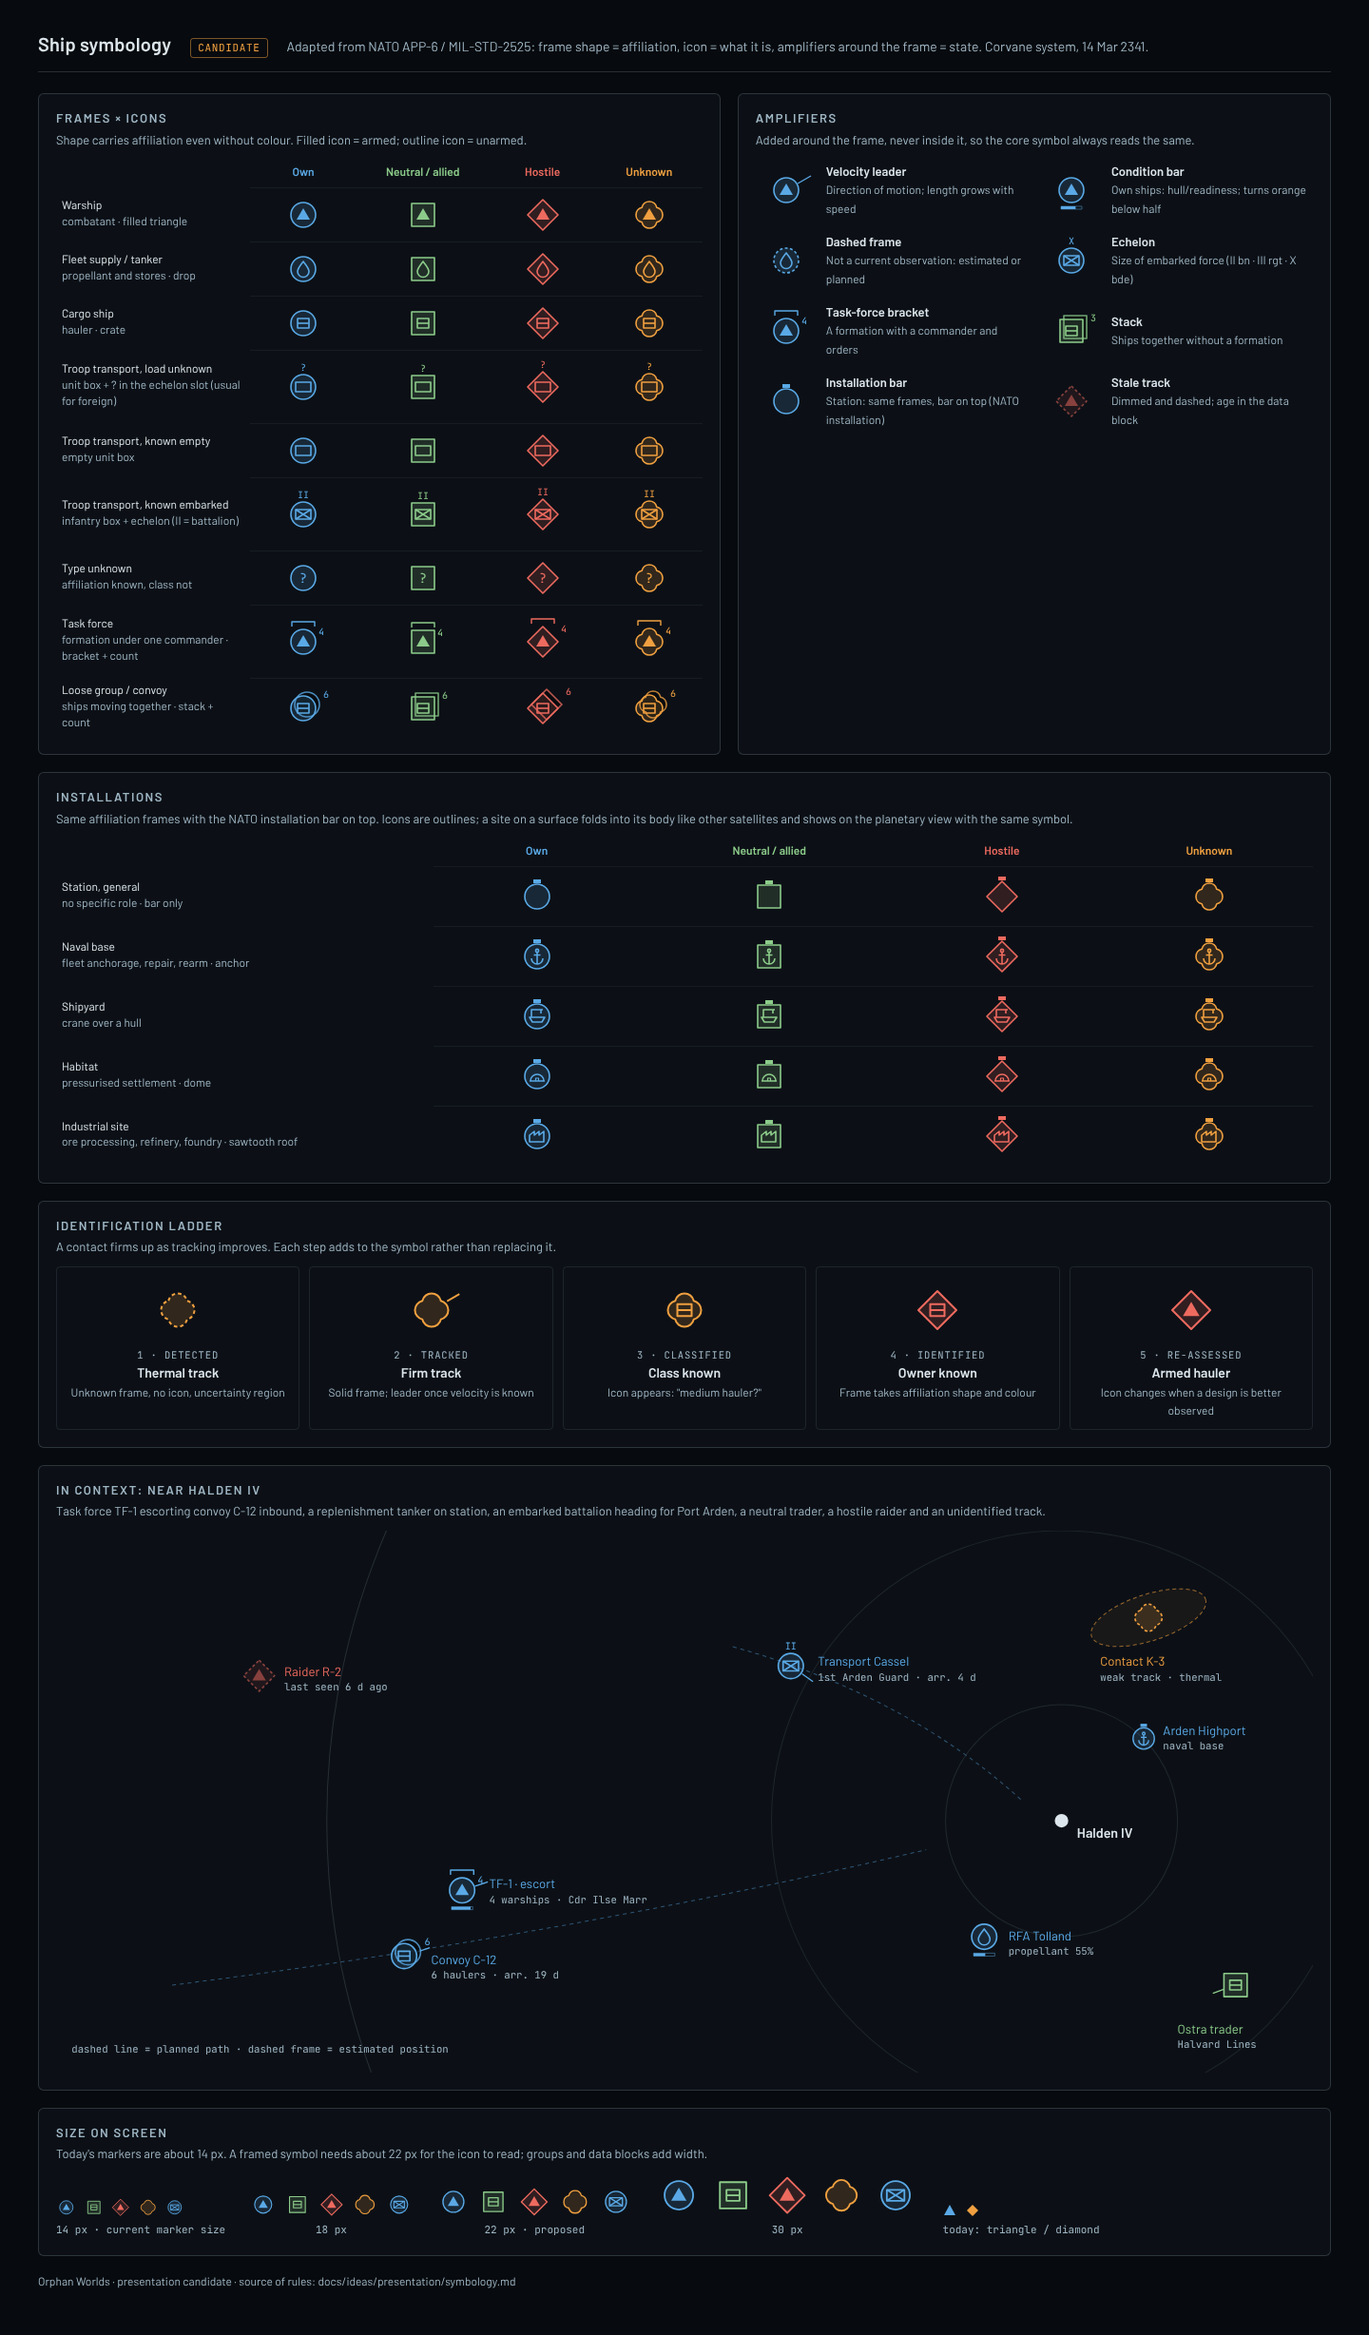
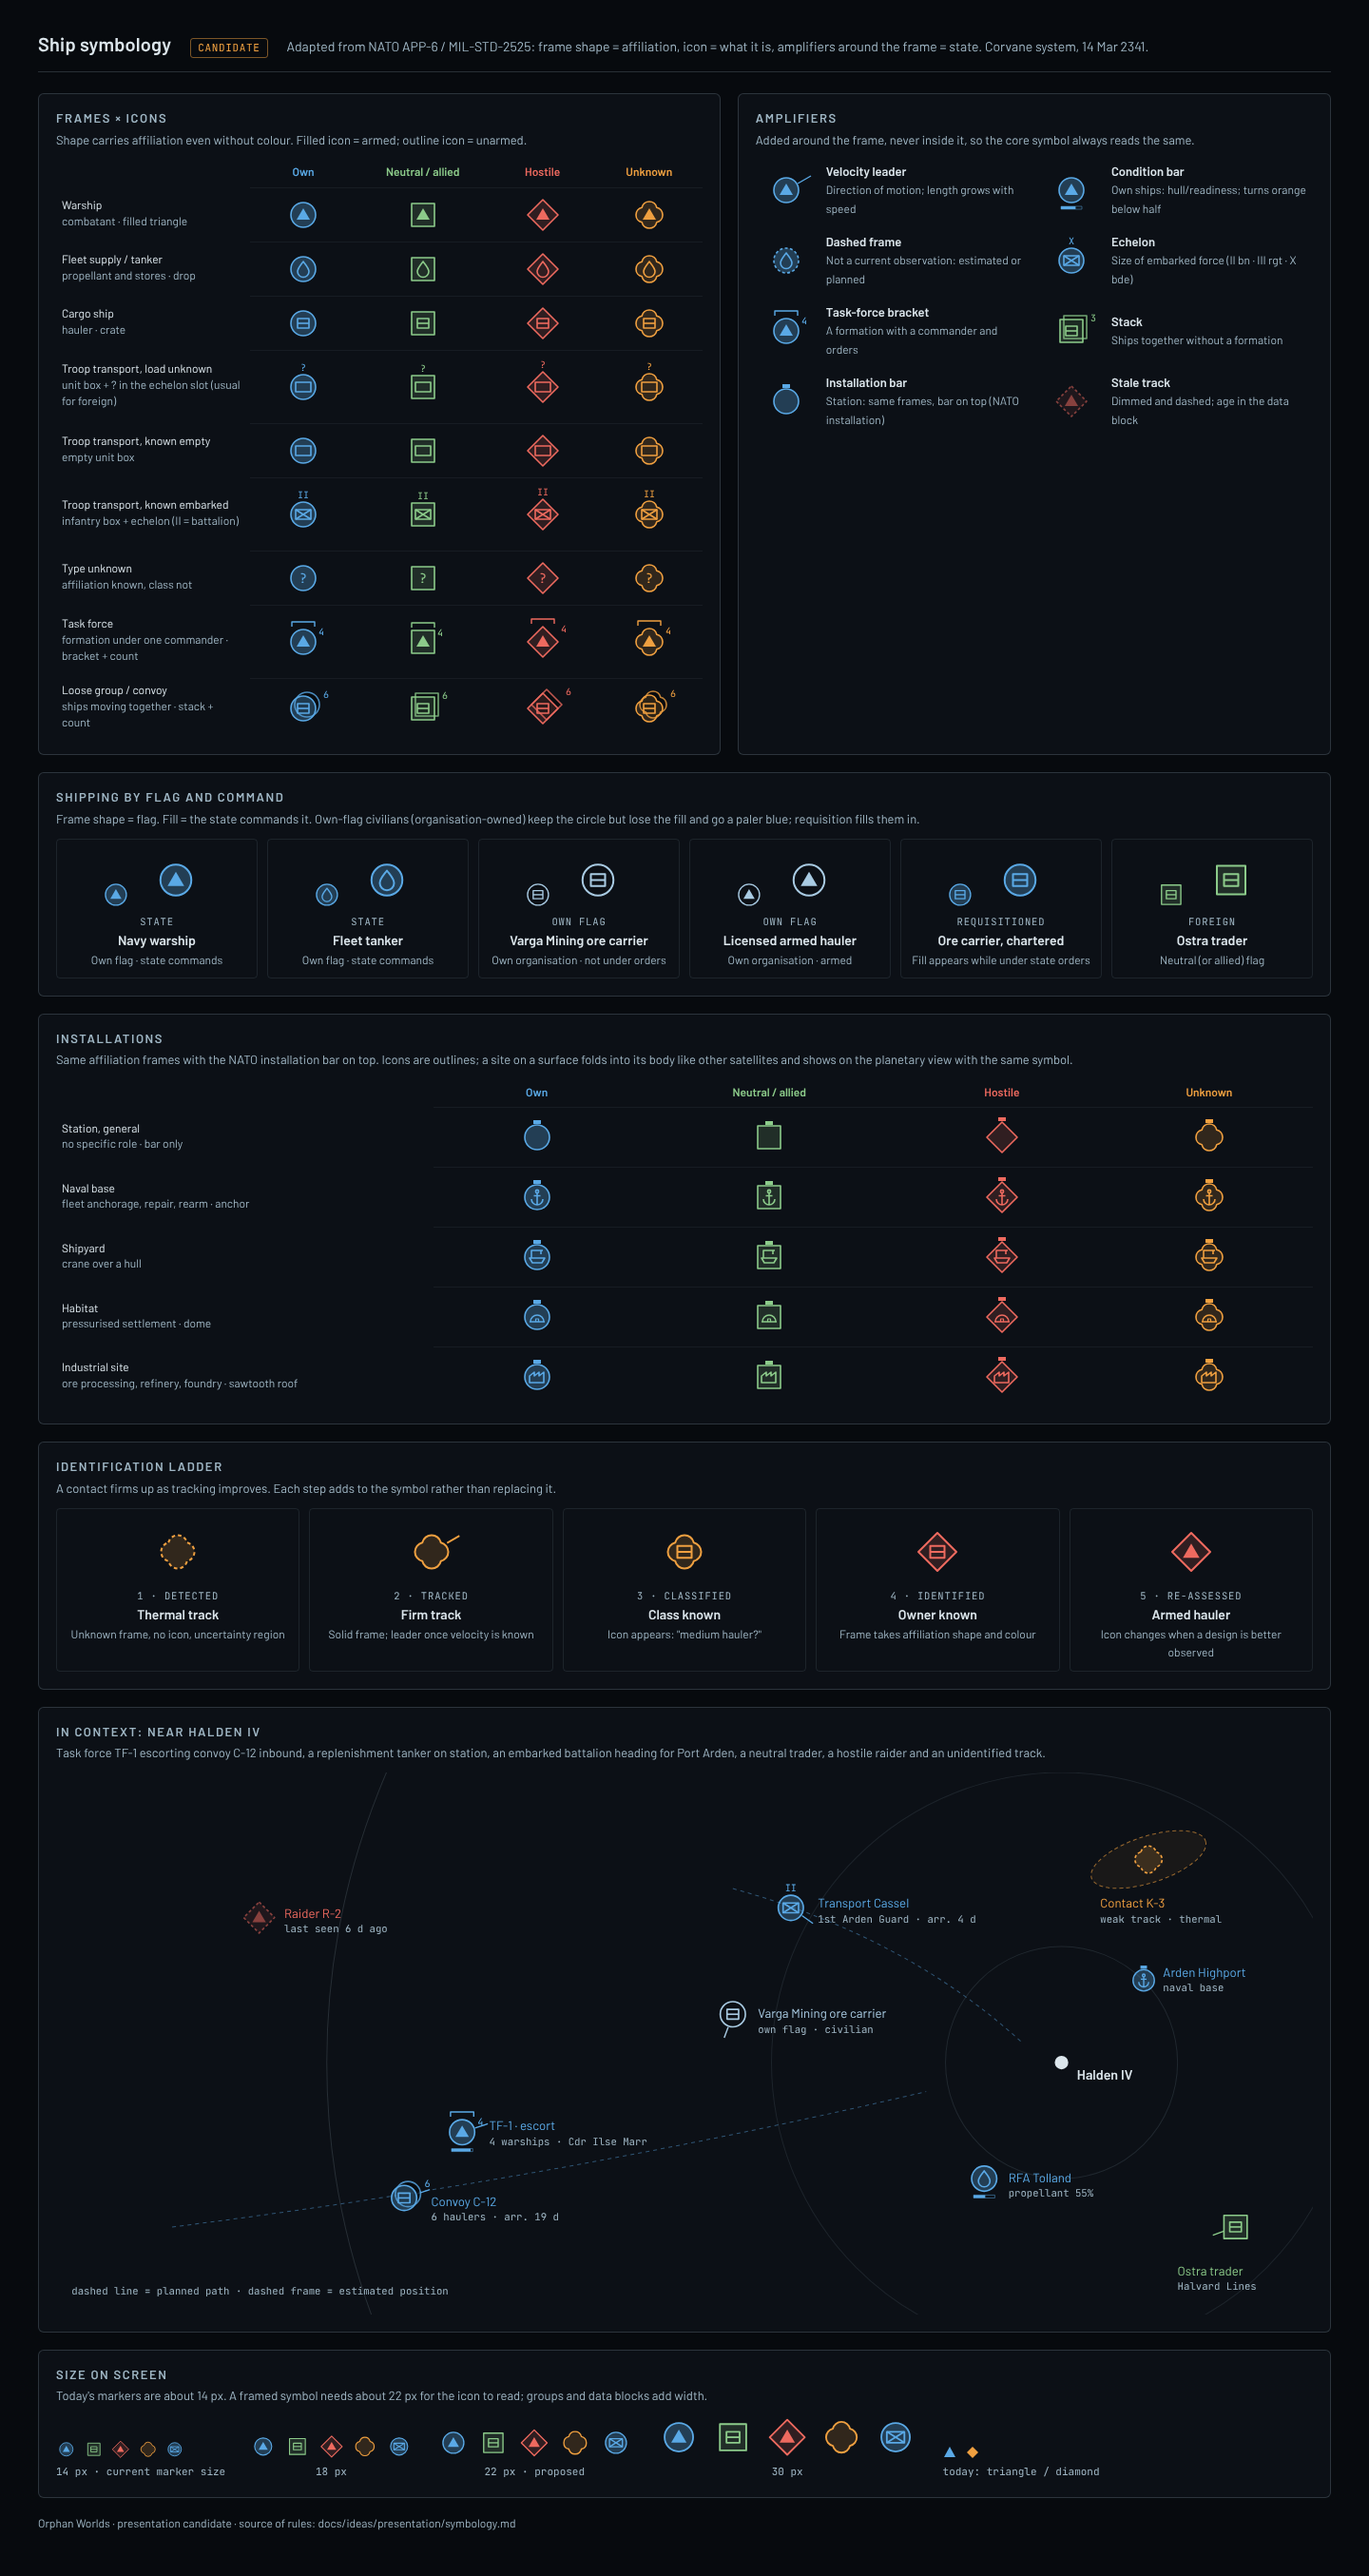
Symbology: separate own-flag civilian shipping from foreign neutrals
Frame shape shows flag, fill shows state command. Own-flag civilians use
an unfilled, paler blue circle; requisition fills it in. Mock-up adds a
flag-and-command board and an own-flag hauler in the context view.

Claude-Session: https://claude.ai/code/session_017AEdTFBJ3xgUEJVQ63ZMCi

diff --git a/docs/ideas/presentation/mockups/7-symbology.html b/docs/ideas/presentation/mockups/7-symbology.html
@@ -57,6 +57,8 @@
   .sizes { display: flex; flex-wrap: wrap; gap: 26px; align-items: flex-end; }
   .sizes figure { margin: 0; text-align: center; }
   .sizes figcaption { font-family: "JetBrains Mono", monospace; font-size: 11px; color: var(--muted); margin-top: 6px; }
+  .flag { display: grid; grid-template-columns: repeat(auto-fit, minmax(150px, 1fr)); gap: 10px; }
+  .flag .step svg + svg { margin-left: 6px; }
   .ctx svg { width: 100%; height: auto; display: block; }
   footer { margin-top: 18px; color: var(--muted); font-size: 12px; }
 </style>
@@ -80,6 +82,12 @@
       <h2>Amplifiers</h2>
       <p class="note">Added around the frame, never inside it, so the core symbol always reads the same.</p>
       <div class="amps" id="amps"></div>
+    </section>
+
+    <section class="board span2">
+      <h2>Shipping by flag and command</h2>
+      <p class="note">Frame shape = flag. Fill = the state commands it. Own-flag civilians (organisation-owned) keep the circle but lose the fill and go a paler blue; requisition fills them in.</p>
+      <div class="flag" id="flag"></div>
     </section>
 
     <section class="board span2">
@@ -111,7 +119,7 @@
 </div>
 
 <script>
-const C = { own: '#5AA9E6', neutral: '#8CCB8A', hostile: '#EE6A5F', unknown: '#F0A040', text: '#DCE6EC', muted: '#9FB6C4', ground: '#070A0E' };
+const C = { own: '#5AA9E6', civil: '#A9CBE3', neutral: '#8CCB8A', hostile: '#EE6A5F', unknown: '#F0A040', text: '#DCE6EC', muted: '#9FB6C4', ground: '#070A0E' };
 
 // Frame outlines in symbol units (frame fits roughly within radius 14 to 16).
 const FRAME = {
@@ -147,7 +155,7 @@ function icon(kind, col) {
   o.station: installation bar   o.lead: [angleDeg, lengthPx] velocity leader   o.dim: lower opacity (stale)
 */
 function sym(o) {
-  const col = C[o.aff];
+  const col = o.civil ? C.civil : C[o.aff];
   const top = TOP[o.aff];
   const dash = o.dashed ? ' stroke-dasharray="3 2.4"' : '';
   let s = `<g stroke="${col}" stroke-width="1.6" stroke-linejoin="round"${o.dim ? ' opacity="0.55"' : ''}>`;
@@ -158,7 +166,7 @@ function sym(o) {
   if (o.group === 'stack') {
     s += `<g transform="translate(4,-4)" fill="${C.ground}" opacity="0.8">${FRAME[o.aff]}</g>`;
   }
-  s += `<g fill="${col}" fill-opacity="0.16"${dash}>${FRAME[o.aff]}</g>`;
+  s += `<g fill="${o.civil ? 'none' : col}" fill-opacity="${o.aff === 'own' ? 0.3 : 0.16}"${dash}>${FRAME[o.aff]}</g>`;
   s += icon(o.icon, col);
   if (o.station) s += `<rect x="-4" y="${-top - 5}" width="8" height="4" fill="${col}" stroke="none"/>`;
   let above = top + 3;
@@ -203,6 +211,18 @@ for (const [name, hint, o] of ROWS) {
        AFFS.map(([k]) => `<td>${svgBox({ ...o, aff: k }, 64, (o.echelon || o.group === 'tf') ? 72 : 52)}</td>`).join('') + '</tr>';
 }
 document.getElementById('matrix').innerHTML = m;
+
+// Flag and command
+const FLAG = [
+  [{ aff: 'own', icon: 'warship' }, 'STATE', 'Navy warship', 'Own flag · state commands'],
+  [{ aff: 'own', icon: 'supply' }, 'STATE', 'Fleet tanker', 'Own flag · state commands'],
+  [{ aff: 'own', icon: 'cargo', civil: true }, 'OWN FLAG', 'Varga Mining ore carrier', 'Own organisation · not under orders'],
+  [{ aff: 'own', icon: 'warship', civil: true }, 'OWN FLAG', 'Licensed armed hauler', 'Own organisation · armed'],
+  [{ aff: 'own', icon: 'cargo' }, 'REQUISITIONED', 'Ore carrier, chartered', 'Fill appears while under state orders'],
+  [{ aff: 'neutral', icon: 'cargo' }, 'FOREIGN', 'Ostra trader', 'Neutral (or allied) flag']
+];
+document.getElementById('flag').innerHTML = FLAG.map(([o,k,b,s]) =>
+  `<div class="step">${svgBox(o, 40, 40, 22/26)}${svgBox(o, 64, 52, 1.25)}<div class="k">${k}</div><b>${b}</b><span>${s}</span></div>`).join('');
 
 // Installations
 const INST = [
@@ -283,6 +303,8 @@ g += `<path d="M700,120 Q880,170 1000,280" fill="none" stroke="${C.own}" stroke-
 g += place({ aff: 'own', icon: 'embarked', echelon: 'II', lead: [125, 14] }, 760, 140);
 g += label(788, 140, ['Transport Cassel', '1st Arden Guard · arr. 4 d'], C.own);
 // neutral trader
+g += place({ aff: 'own', icon: 'cargo', civil: true, lead: [200, 12] }, 700, 250);
+g += label(726, 254, ['Varga Mining ore carrier', 'own flag · civilian'], C.civil);
 g += place({ aff: 'neutral', icon: 'cargo', lead: [250, 12] }, 1220, 470);
 g += label(1160, 520, ['Ostra trader', 'Halvard Lines'], C.neutral);
 // hostile raider stale

diff --git a/docs/ideas/presentation/symbology.md b/docs/ideas/presentation/symbology.md
@@ -31,7 +31,13 @@ Uses the NATO sea-surface frames. They are closed, compact shapes; the NATO spac
 | Unknown | Quatrefoil | Orange #F0A040 | Today's "foreign contact" orange, standing in for NATO yellow. |
 
 - Frames are outlines with a faint tint fill (about 16 %) so they stand out on the dark ground without becoming solid blobs.
-- **Allies (decided for now, 2026-10-11):** allied ships use the neutral frame. The important split for the player is "mine to command" versus "not mine". NATO itself puts allies in the friend frame. If allies later need to stand apart from neutrals, the likely change is the friend circle with no fill (outline only): it keeps "will fight on our side" in the friendly shape, and the fill marks "takes my orders".
+- **Allies (decided for now, 2026-10-11):** allied ships use the neutral frame. The important split for the player is "mine to command" versus "not mine". NATO itself puts allies in the friend frame. If allies later need to stand apart from neutrals, they need a cue other than the unfilled circle, which own-flag civilians now use (below).
+- **Own-flag versus foreign shipping (candidate):** two separate questions, shown by two separate cues.
+  - *Flag* (whose ship it is) sets the frame shape. Ships registered to own organisations are own flag, so they keep the circle. A foreign neutral merchant has the square.
+  - *Command* (does the state give it orders) sets the fill. State ships have a solid tint. Own-flag civilians have no fill and a paler blue (#A9CBE3), so they read as "ours, but not under orders".
+  - Requisitioning or chartering a civilian ship fills its frame in for as long as the state commands it, so the player sees the takeover on the map.
+  - The armed rule still holds: a licensed armed hauler gets the filled warship icon in an unfilled frame.
+  - The state tint is stronger (about 30 %) than for other affiliations, so filled and unfilled circles stay distinct at 22 px.
 - **Open:** whether "hostile" means at war, or just "a faction we treat as a threat". It should follow the state's declared stance, not the AI's intent, so the player never learns hidden intent from a colour.
 
 ## 3. Icons: what it is
@@ -130,7 +136,9 @@ Adopting this would change built requirements:
 - Whether neutral green and hostile red work for colour-blind players alongside the shapes, or need adjusting. Red and orange are close for some players; the frame shape carries the difference.
 - Warnings currently share orange with unknown contacts. Probably fine, since a new unknown contact usually is the warning.
 - How many icon types before they stop being learnable. Aim for under a dozen.
-- Whether civilian ships owned by own organisations (not the state) need a distinct look, since the state doesn't command them. A candidate: own frame, no fill.
+- Whether the paler civilian blue is too close to the neutral off-white used for bodies and text. Unfilled circle versus filled disc should still tell them apart.
+- Whether state-owned organisations' ships (owned by a company the state owns, but not navy) count as state or civilian. Probably civilian unless requisitioned: ownership isn't command.
+- Own-flag civilian installations (a privately owned yard or refinery) would follow the same rule: circle, no fill.
 - Leader length scale: linear or logarithmic in speed, given transit speeds vary widely.
 
 ## Rendering the mock-up
